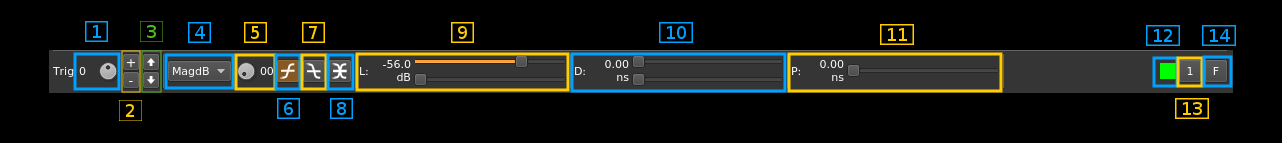
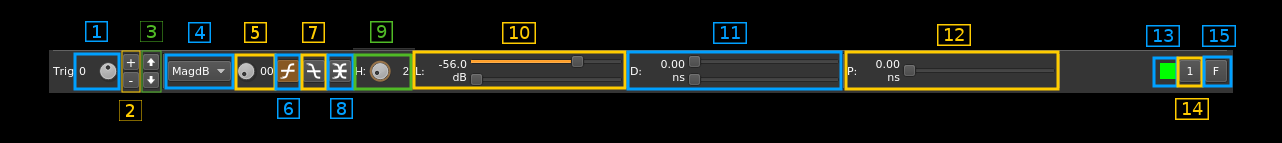
Scope: implemented trigger holdoff

diff --git a/sdrgui/dsp/scopevis.h b/sdrgui/dsp/scopevis.h
@@ -105,6 +105,7 @@ public:
         int  m_triggerLevelFine;
         bool m_triggerPositiveEdge;      //!< Trigger on the positive edge (else negative)
         bool m_triggerBothEdges;         //!< Trigger on both edges (else only one)
+        uint32_t m_triggerHoldoff;       //!< Trigger holdoff in number of samples
         uint32_t m_triggerDelay;         //!< Delay before the trigger is kicked off in number of samples (trigger delay)
         double m_triggerDelayMult;       //!< Trigger delay as a multiplier of trace length
         int m_triggerDelayCoarse;
@@ -123,6 +124,7 @@ public:
             m_triggerLevelFine(0),
             m_triggerPositiveEdge(true),
             m_triggerBothEdges(false),
+            m_triggerHoldoff(1),
             m_triggerDelay(0),
             m_triggerDelayMult(0.0),
             m_triggerDelayCoarse(0),
@@ -572,13 +574,18 @@ private:
         bool m_prevCondition;         //!< Condition (above threshold) at previous sample
         uint32_t m_triggerDelayCount; //!< Counter of samples for delay
         uint32_t m_triggerCounter;    //!< Counter of trigger occurences
+        uint32_t m_trues;             //!< Count of true conditions for holdoff processing
+        uint32_t m_falses;            //!< Count of false conditions for holdoff processing
+
 
         TriggerCondition(const TriggerData& triggerData) :
             m_projector(Projector::ProjectionReal),
             m_triggerData(triggerData),
             m_prevCondition(false),
             m_triggerDelayCount(0),
-            m_triggerCounter(0)
+            m_triggerCounter(0),
+            m_trues(0),
+            m_falses(0)
         {
         }
 
@@ -607,6 +614,8 @@ private:
             m_prevCondition = false;
             m_triggerDelayCount = 0;
             m_triggerCounter = 0;
+            m_trues = 0;
+            m_falses = 0;
         }
 
         void operator=(const TriggerCondition& other)
@@ -1021,7 +1030,7 @@ private:
     class TriggerComparator
     {
     public:
-        TriggerComparator() : m_level(0), m_reset(true), m_holdoff(2), m_trues(0), m_falses(0)
+        TriggerComparator() : m_level(0), m_reset(true)
         {
             computeLevels();
         }
@@ -1046,20 +1055,20 @@ private:
 
             if (condition)
             {
-                if (m_trues < m_holdoff) {
+                if (triggerCondition.m_trues < triggerCondition.m_triggerData.m_triggerHoldoff) {
                     condition = false;
-                    m_trues++;
+                    triggerCondition.m_trues++;
                 } else {
-                    m_falses = 0;
+                    triggerCondition.m_falses = 0;
                 }
             }
             else
             {
-                if (m_falses < m_holdoff) {
+                if (triggerCondition.m_falses < triggerCondition.m_triggerData.m_triggerHoldoff) {
                     condition = true;
-                    m_falses++;
+                    triggerCondition.m_falses++;
                 } else {
-                    m_trues = 0;
+                    triggerCondition.m_trues = 0;
                 }
             }
 
@@ -1106,9 +1115,6 @@ private:
         Real m_levelPowerDB;
         Real m_levelPowerLin;
         bool m_reset;
-        uint32_t m_holdoff;
-        uint32_t m_trues;
-        uint32_t m_falses;
     };
 
     GLScope* m_glScope;

diff --git a/sdrgui/gui/glscopegui.cpp b/sdrgui/gui/glscopegui.cpp
@@ -220,6 +220,7 @@ QByteArray GLScopeGUI::serialize() const
         s.writeFloat(218 + 16*i, triggerData.m_triggerColorR);
         s.writeFloat(219 + 16*i, triggerData.m_triggerColorG);
         s.writeFloat(220 + 16*i, triggerData.m_triggerColorB);
+        s.writeU32(221 + 16*i, triggerData.m_triggerHoldoff);
     }
 
     return s.final();
@@ -402,6 +403,9 @@ bool GLScopeGUI::deserialize(const QByteArray& data)
             d.readFloat(219 + 16*iTrigger, &g, 1.0f);
             d.readFloat(220 + 16*iTrigger, &b, 1.0f);
             m_focusedTriggerColor.setRgbF(r, g, b);
+            d.readU32(221 + 16*iTrigger, &uintValue, 1);
+            ui->trigHoldoff->setValue(uintValue);
+            ui->trigHoldoffText->setText(tr("%1").arg(uintValue));
 
             fillTriggerData(triggerData);
 
@@ -895,6 +899,12 @@ void GLScopeGUI::on_trigBoth_toggled(bool checked)
     changeCurrentTrigger();
 }
 
+void GLScopeGUI::on_trigHoldoff_valueChanged(int value)
+{
+    ui->trigHoldoffText->setText(tr("%1").arg(value));
+    changeCurrentTrigger();
+}
+
 void GLScopeGUI::on_trigLevelCoarse_valueChanged(int value __attribute__((unused)))
 {
     setTrigLevelDisplay();
@@ -1338,6 +1348,7 @@ void GLScopeGUI::fillTriggerData(ScopeVis::TriggerData& triggerData)
     triggerData.m_triggerLevelFine = ui->trigLevelFine->value();
     triggerData.m_triggerPositiveEdge = ui->trigPos->isChecked();
     triggerData.m_triggerBothEdges = ui->trigBoth->isChecked();
+    triggerData.m_triggerHoldoff = ui->trigHoldoff->value();
     triggerData.m_triggerRepeat = ui->trigCount->value();
     triggerData.m_triggerDelayMult = ui->trigDelayCoarse->value() + ui->trigDelayFine->value() / (ScopeVis::m_traceChunkSize / 10.0);
     triggerData.m_triggerDelay = (int) (m_traceLenMult * ScopeVis::m_traceChunkSize * triggerData.m_triggerDelayMult);
@@ -1404,6 +1415,8 @@ void GLScopeGUI::setTriggerUI(const ScopeVis::TriggerData& triggerData)
             ui->trigNeg->doToggle(true);
         }
     }
+
+    ui->trigHoldoffText->setText(tr("%1").arg(triggerData.m_triggerHoldoff));
 
     ui->trigLevelCoarse->setValue(triggerData.m_triggerLevelCoarse);
     ui->trigLevelFine->setValue(triggerData.m_triggerLevelFine);

diff --git a/sdrgui/gui/glscopegui.h b/sdrgui/gui/glscopegui.h
@@ -227,6 +227,7 @@ private slots:
     void on_trigPos_toggled(bool checked);
     void on_trigNeg_toggled(bool checked);
     void on_trigBoth_toggled(bool checked);
+    void on_trigHoldoff_valueChanged(int value);
     void on_trigLevelCoarse_valueChanged(int value);
     void on_trigLevelFine_valueChanged(int value);
     void on_trigDelayCoarse_valueChanged(int value);

diff --git a/plugins/channelrx/chanalyzer/readme.md b/plugins/channelrx/chanalyzer/readme.md
@@ -386,7 +386,17 @@ This button selects the negative edge triggering. Trigger is raised only of the 
 
 This button selects both signal edges triggering. Trigger is raised if the signal crosses threshold in any direction. This actually combines the positive and negative edge testing with an or condition.
 
-<h3>9. Trigger level adjustment</h3>
+<h3>9. Trigger holdoff</h3>
+
+Use this button to control the trigger holdoff in a number of samples from 1 to 12.
+
+The above level condition is counted for a number of samples and if it is has been true for the holdoff number of samples the condition is declared true. A similar count is used for the false condition (below level).
+
+When the condition is declared true the counter of false conditions is reset and accordingly when the condition is declared false the counter of true conditions is reset.
+
+A value above 1 helps eliminating false triggers when small spikes appear on the leading or falling edge of a larger pulse. A value of 1 (minimum) means that the holdoff is not active.
+
+<h3>10. Trigger level adjustment</h3>
 
 This pair of sliders let you adjust the trigger level, The level appears on the left of the sliders. 
 
@@ -406,26 +416,26 @@ The bottom slider is a fine adjustment. Each step moves the trigger level by an 
   - MagDB: 0.01 dB
   - Phi, dPhi: 20.0E-6
   
-<h3>10: Trigger delay</h3>
+<h3>11: Trigger delay</h3>
 
 The actual trigger top can be moved forward by a number of samples. This pair of slider lets you adjust this delay. The delay in time units appears at the left of the sliders and the amount of samples as a tooltip
 
 The top slider is a coarse adjustment. Each step moves the delay by a trace length. The bottom slider is a fine adjustment. Each step moves the delay by 20 samples
 
-<h3>11. Pre-trigger delay</h3>
+<h3>12. Pre-trigger delay</h3>
 
 The trace can start an amount of time before the trigger top. This pair of sliders let you adjust this amount of time which is displayed at the left of the sliders. The corresponding number of samples appear as a tooltip.
 
 The top slider is a coarse adjustment. Each step moves the delay by a hundreth of the trace length. The bottom slider is a fine adjustment. Each step moves the delay by 20 samples.
 
-<h3>12. Trigger line color</h3>
+<h3>13. Trigger line color</h3>
 
 This area shows the current trigger line color. When clicking on it a color chooser dialog appears that lets you change the color of the current trigger line color. This line appears when the selected trace projection matches the trigger projection.
 
-<h3>13. One-shot trigger</h3>
+<h3>14. One-shot trigger</h3>
 
 This button toggles a one shot trigger. When the (final) trigger is raised only one trace is processed until the button is released.
 
-<h3>14. Freerun</h3>
+<h3>15. Freerun</h3>
 
 When active the triggers are disabled and traces are processed continuously. This is the default at plugin start time. 
